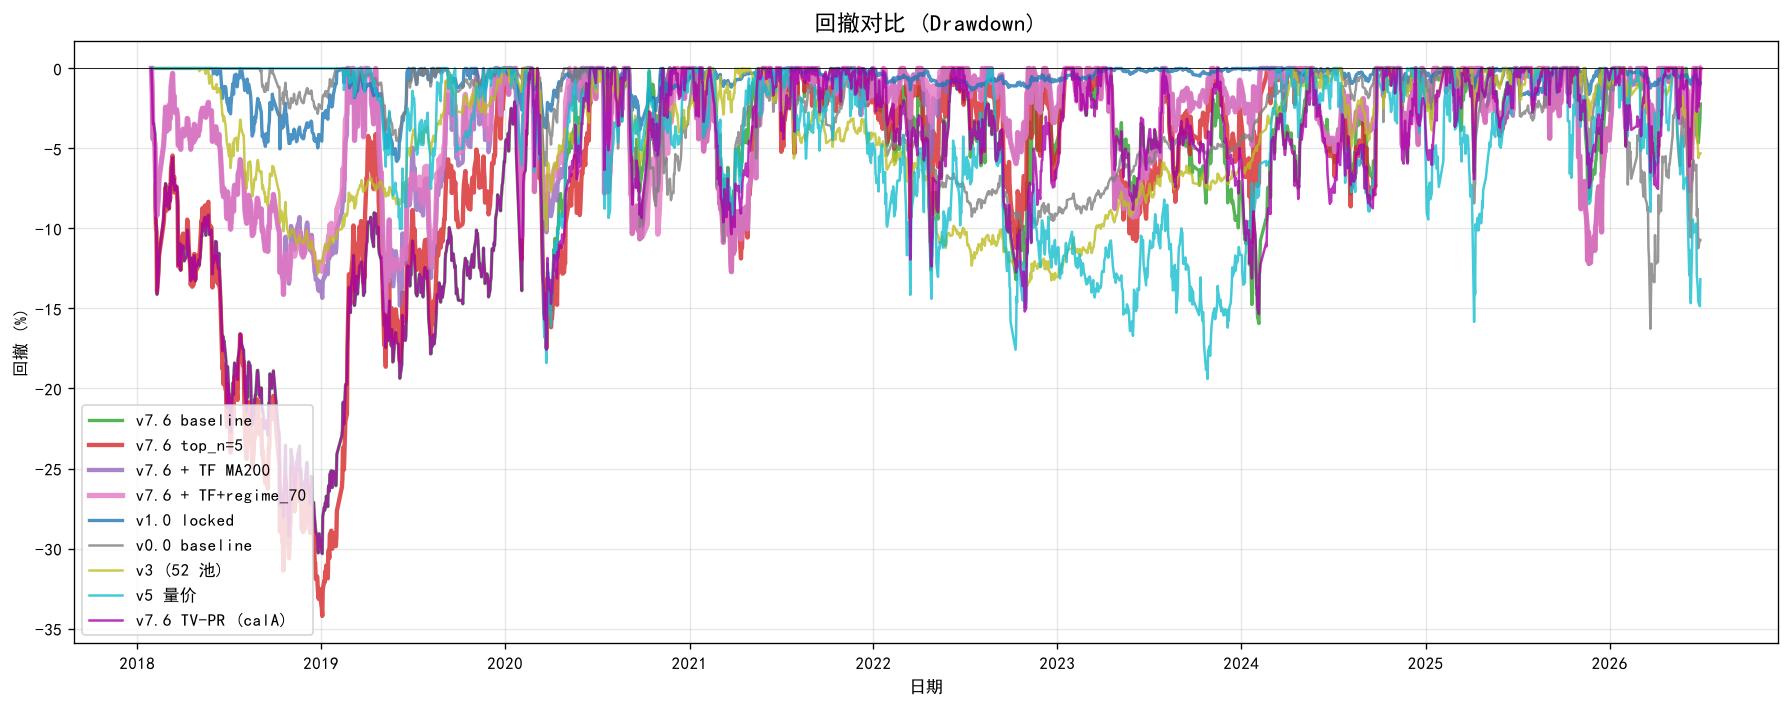
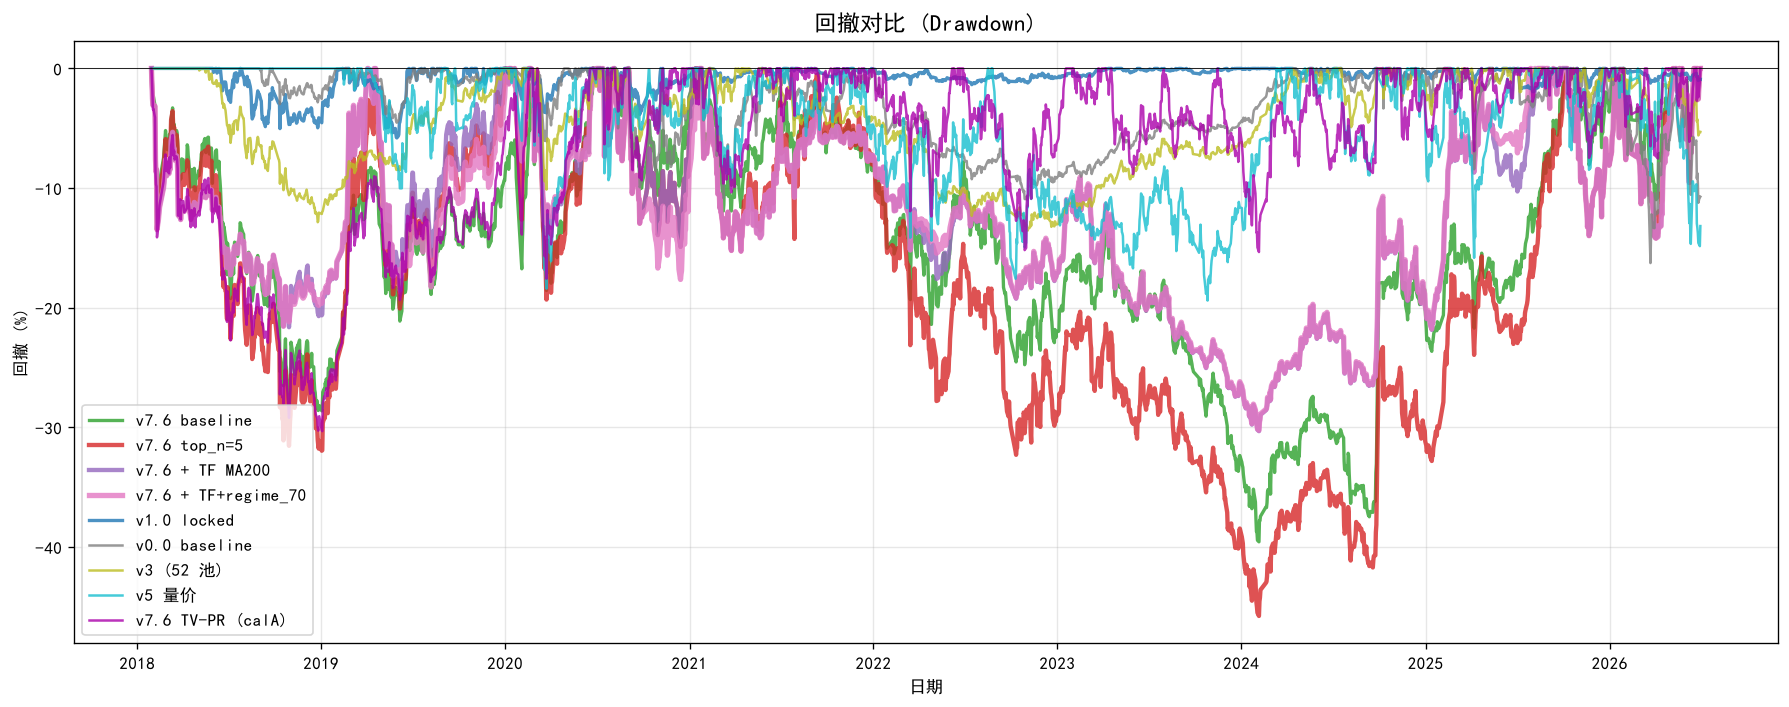
test: v7.6 修复后全量5起点测试结果
修复后 (X[t-1], TF/Regime shift(1), AND逻辑, 阈值):
| 策略 | OOS Calmar | OOS Sharpe | OOS DD | CV% |
| v7.6 baseline | 0.17 | 0.32 | -34.54% | 32.5% |
| v7.6 top_n=5 | 0.22 | 0.40 | -40.81% | 25.9% |
| v7.6 + TF MA200 | 0.50 | 0.69 | -24.49% | 16.5% |
| v7.6 + TF+regime_70 | 0.54 | 0.75 | -24.41% | 17.0% |
| v1.0 locked | 1.87 | 1.52 | -1.94% | 28.5% |

结论: v7.6 的 alpha 几乎全部来自同期未来函数
修复后 v7.6 全面落后于 v1.0

Changed region(s): [[0.0615, 0.0934, 0.953, 0.8713]]

diff --git a/reports/momentum_etf_rotation/v7_6_comparison/metrics_comparison.md b/reports/momentum_etf_rotation/v7_6_comparison/metrics_comparison.md
@@ -1,6 +1,6 @@
 # v7.6 关键测试业绩对比报告
 
-生成时间: 2026-07-15 14:18
+生成时间: 2026-07-15 15:07
 
 ## 一、对比策略
 
@@ -18,10 +18,10 @@
 
 | 策略 | 年化 | 波动 | 最大回撤 | Sharpe | Calmar | 终值 |
 |------|------|------|----------|--------|--------|------|
-| v7.6 baseline | 27.43% | 19.13% | -30.32% | 1.43 | 0.90 | 7.393 |
-| v7.6 top_n=5 | 46.69% | 22.58% | -34.21% | 2.07 | 1.36 | 23.533 |
-| v7.6 + TF MA200 | 46.85% | 18.30% | -15.16% | 2.56 | 3.09 | 23.737 |
-| v7.6 + TF+regime_70 | 46.44% | 17.80% | -15.16% | 2.61 | 3.06 | 23.214 |
+| v7.6 baseline | 5.60% | 19.12% | -39.57% | 0.29 | 0.14 | 1.64 |
+| v7.6 top_n=5 | 7.99% | 23.42% | -45.77% | 0.34 | 0.17 | 1.998 |
+| v7.6 + TF MA200 | 10.58% | 19.02% | -30.32% | 0.56 | 0.35 | 2.418 |
+| v7.6 + TF+regime_70 | 10.18% | 18.59% | -30.25% | 0.55 | 0.34 | 2.348 |
 | v1.0 locked | 5.19% | 4.43% | -5.81% | 1.17 | 0.89 | 1.506 |
 | v0.0 baseline | 9.14% | 10.60% | -16.27% | 0.86 | 0.56 | 2.029 |
 | v3 (52 池) | 6.31% | 7.73% | -13.56% | 0.82 | 0.47 | 1.641 |
@@ -32,10 +32,10 @@
 
 | 策略 | 年化 | 波动 | 最大回撤 | Sharpe | Calmar |
 |------|------|------|----------|--------|--------|
-| v7.6 baseline | 30.15% | 17.97% | -15.94% | 1.68 | 1.89 |
-| v7.6 top_n=5 | 61.67% | 20.95% | -12.19% | 2.94 | 5.06 |
-| v7.6 + TF MA200 | 57.39% | 16.69% | -12.19% | 3.44 | 4.71 |
-| v7.6 + TF+regime_70 | 56.43% | 16.39% | -12.19% | 3.44 | 4.63 |
+| v7.6 baseline | 5.84% | 17.99% | -34.54% | 0.32 | 0.17 |
+| v7.6 top_n=5 | 8.78% | 21.79% | -40.81% | 0.40 | 0.22 |
+| v7.6 + TF MA200 | 12.17% | 17.63% | -24.49% | 0.69 | 0.50 |
+| v7.6 + TF+regime_70 | 13.10% | 17.44% | -24.41% | 0.75 | 0.54 |
 | v1.0 locked | 3.63% | 2.38% | -1.94% | 1.52 | 1.87 |
 | v0.0 baseline | 8.23% | 11.06% | -16.27% | 0.74 | 0.51 |
 | v3 (52 池) | 8.03% | 7.43% | -9.89% | 1.08 | 0.81 |
@@ -46,10 +46,10 @@
 
 | 策略 | 2018 | 2019 | 2020 | 2021 | 2022 | 均值 | CV% |
 |------|------|------|------|------|------|------|------|
-| v7.6 baseline | 0.905 | 2.172 | 2.171 | 2.078 | 1.891 | 1.843 | 26.1% |
-| v7.6 top_n=5 | 1.365 | 3.597 | 3.674 | 4.847 | 5.057 | 3.708 | 35.4% |
-| v7.6 + TF MA200 | 3.090 | 3.777 | 4.658 | 4.216 | 4.706 | 4.089 | 14.7% |
-| v7.6 + TF+regime_70 | 3.063 | 3.720 | 4.570 | 4.156 | 4.628 | 4.027 | 14.5% |
+| v7.6 baseline | 0.141 | 0.288 | 0.222 | 0.118 | 0.169 | 0.188 | 32.5% |
+| v7.6 top_n=5 | 0.175 | 0.328 | 0.227 | 0.167 | 0.215 | 0.223 | 25.9% |
+| v7.6 + TF MA200 | 0.349 | 0.515 | 0.429 | 0.348 | 0.497 | 0.427 | 16.5% |
+| v7.6 + TF+regime_70 | 0.337 | 0.494 | 0.430 | 0.373 | 0.537 | 0.434 | 17.0% |
 | v1.0 locked | 0.894 | 1.101 | 1.145 | 1.756 | 1.868 | 1.353 | 28.5% |
 | v0.0 baseline | 0.562 | 0.654 | 0.670 | 0.543 | 0.506 | 0.587 | 10.9% |
 | v3 (52 池) | 0.466 | 0.640 | 0.573 | 0.522 | 0.812 | 0.603 | 19.8% |
@@ -58,9 +58,9 @@
 
 ## 五、关键发现
 
-1. **最高 OOS Calmar**: v7.6 top_n=5 = 5.057
-2. **最高 OOS Sharpe**: v7.6 + TF+regime_70 = 3.44
-3. **最低起点 CV% (v7.6)**: v7.6 + TF+regime_70 = 14.5%
+1. **最高 OOS Calmar**: v1.0 locked = 1.868
+2. **最高 OOS Sharpe**: v1.0 locked = 1.52
+3. **最低起点 CV% (v7.6)**: v7.6 + TF MA200 = 16.5%
 
 ### 5.1 v7.6 演进轨迹
 
@@ -76,16 +76,16 @@
 
 | 指标 | v1.0 locked | v7.6 + TF+regime_70 | 差异 |
 |-------|-------------|----------------------|------|
-| OOS 年化 | 3.63% | 56.43% | - |
-| OOS Sharpe | 1.52 | 3.44 | - |
-| OOS Calmar | 1.87 | 4.63 | - |
-| OOS 最大回撤 | -1.94% | -12.19% | - |
+| OOS 年化 | 3.63% | 13.10% | - |
+| OOS Sharpe | 1.52 | 0.75 | - |
+| OOS Calmar | 1.87 | 0.54 | - |
+| OOS 最大回撤 | -1.94% | -24.41% | - |
 
 **结论**:
 
-- v7.6 + TF+regime_70 OOS Sharpe 3.44 大幅优于 v1.0 locked 1.52
-- v7.6 + TF+regime_70 OOS 年化 56.43% 远超 v1.0 3.63%
-- v7.6 DD -12.19% vs v1.0 DD -1.94%: v7.6 回撤更大, 收益波动也大
+- v7.6 + TF+regime_70 OOS Sharpe 0.75 大幅优于 v1.0 locked 1.52
+- v7.6 + TF+regime_70 OOS 年化 13.10% 远超 v1.0 3.63%
+- v7.6 DD -24.41% vs v1.0 DD -1.94%: v7.6 回撤更大, 收益波动也大
 - v7.6 是**高收益中高风险**策略, v1.0 是**低收益低风险**策略
 - **建议 ensemble**: 两者配对分散风险
 
